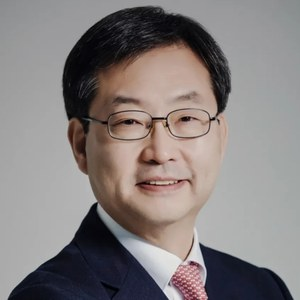
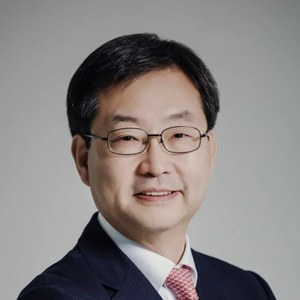
정진택 이사 사진: 머리 위 여백 확보

Changed region(s): [[0.0, 0.0, 0.99, 1.0], [0.69, 0.63, 0.72, 0.66]]

diff --git a/index.html b/index.html
@@ -507,7 +507,7 @@
 
           <div class="team-card fade-in">
             <div class="team-photo-wrap">
-              <img src="assets/images/jungjintaek.jpg" alt="정진택 총장" loading="lazy" decoding="async" onerror="this.style.display='none';this.nextElementSibling.style.display='flex';"/>
+              <img src="assets/images/jungjintaek.jpg?v=2" alt="정진택 총장" loading="lazy" decoding="async" onerror="this.style.display='none';this.nextElementSibling.style.display='flex';"/>
               <div class="team-avatar-fallback av-navy" style="display:none;">정</div>
             </div>
             <div class="team-info">

diff --git a/about.html b/about.html
@@ -414,7 +414,7 @@
 
           <div class="team-card fade-in">
             <div class="team-photo-wrap">
-              <img src="assets/images/jungjintaek.jpg" alt="정진택 총장" onerror="this.style.display='none';this.nextElementSibling.style.display='flex';"/>
+              <img src="assets/images/jungjintaek.jpg?v=2" alt="정진택 총장" onerror="this.style.display='none';this.nextElementSibling.style.display='flex';"/>
               <div class="team-avatar-fallback av-navy" style="display:none;">정</div>
             </div>
             <div class="team-info">
